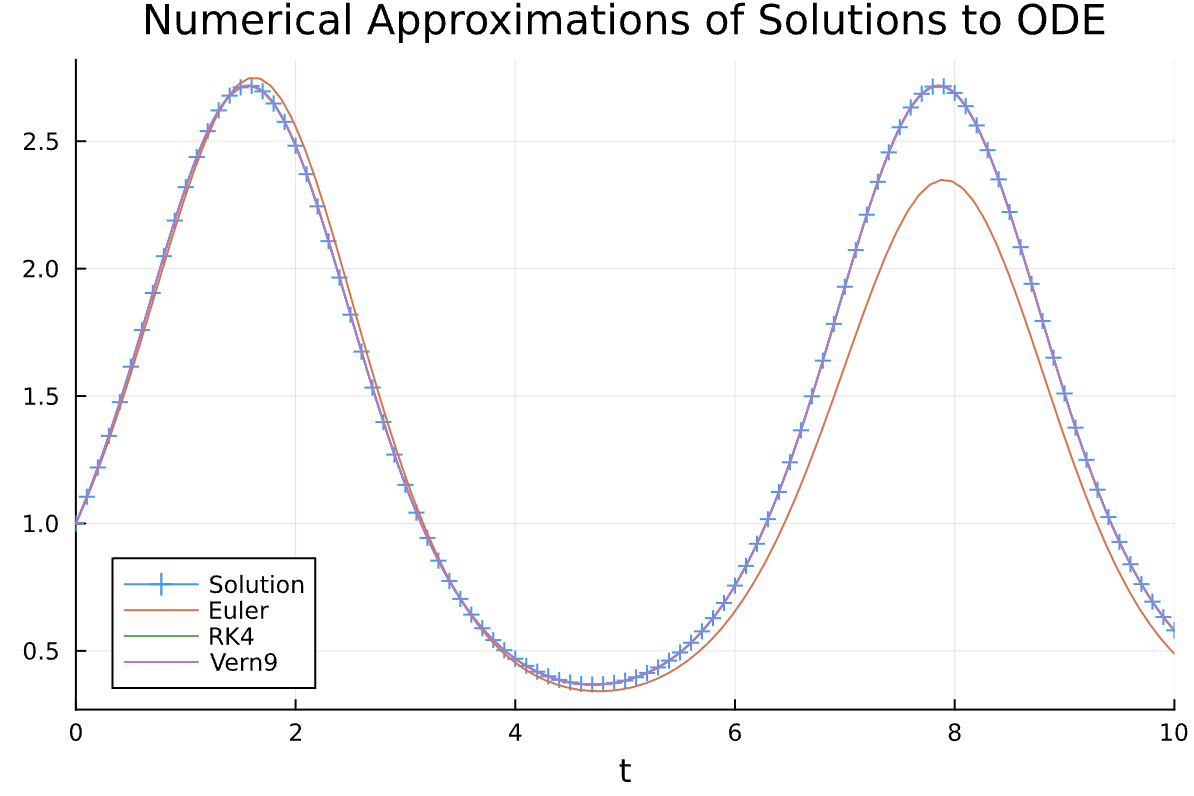
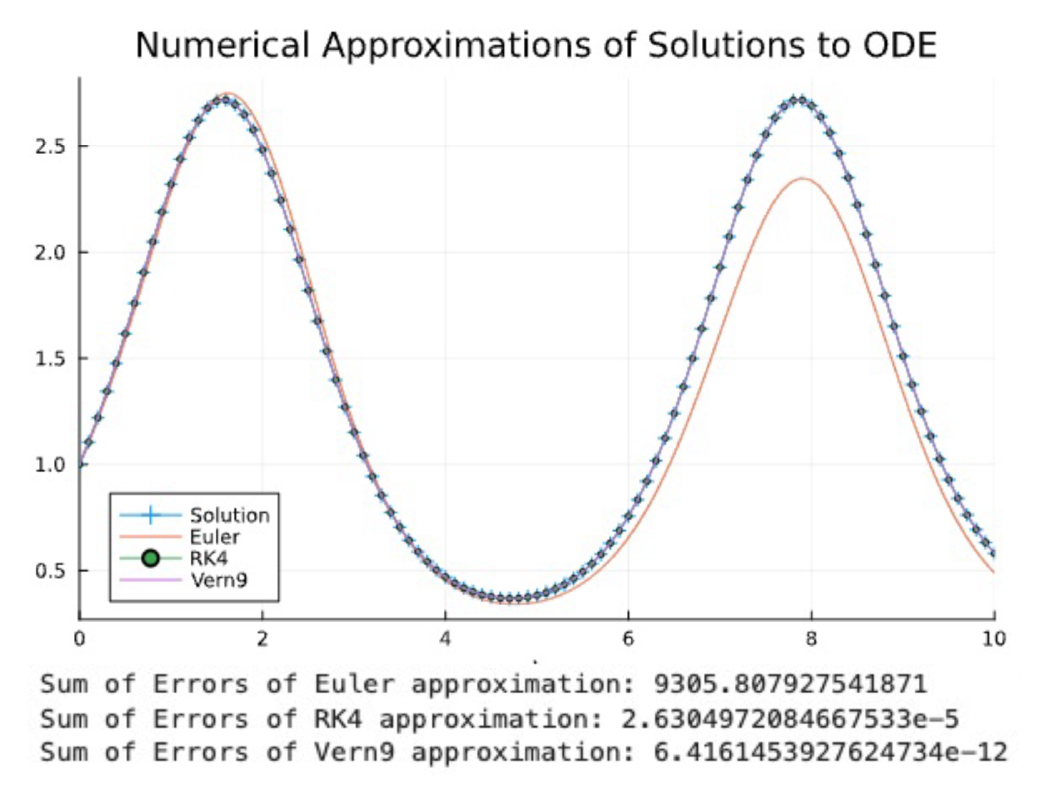
edited 4.1.1 and included citations for section 4 so far

Changed region(s): [[0.0, 0.0, 1.0, 0.9648]]

diff --git a/report/M2R_template.tex b/report/M2R_template.tex
@@ -422,9 +422,7 @@ Unlike a neural network, where depth refers to the number of layers, in a neural
 
 Solving differential equations is a difficult procedure in general, requiring a great deal of effort in existence theorems and techniques. Solving neural ODEs therefore poses a significant challenge in itself. Having defined basic neural network and neural ODE theory, we now turn our attention to the steps required to solve such problems numerically.
 
-Consider a neural ODE defined by a neural network $f$. This gives us the differential equation of the system $\dot{z}=f(z(t),\theta,t)$. There are two predominant methods for solving neural ODEs, known as Discretise-then-Optimise (DO) and Optimise-then-Discretise (OD). These methods will be elaborately described later on.
-
-For now, we introduce the ideas of discretising and optimising to provide a general understanding of the techniques required. Discretisation (of the neural ODE) involves solving the ODE numerically. These involve breaking the (continuous) differential equation into discrete time steps and employing numerical methods to calculate the solution at each time step. Optimisation, on the other hand, involves deriving the parameters $\theta$ that minimise some loss function of our choice. 
+Consider a neural ODE defined by a neural network $f$. This gives us the differential equation of the system $\dot{z}=f(z(t),\theta,t)$. There are two predominant methods for solving neural ODEs, known as Discretise-then-Optimise (DO) and Optimise-then-Discretise (OD) \cite{kidger2022neural}. For now, we introduce the ideas of discretising and optimising to provide a general understanding of the techniques required. Discretisation (of the neural ODE) involves solving the ODE numerically. These involve breaking the (continuous) differential equation into discrete time steps and employing numerical methods to calculate the solution at each time step. Optimisation, on the other hand, involves deriving the parameters $\theta$ that minimise some loss function of our choice. 
 
 As such, the two methods for solving neural ODEs require similar numerical methods, albeit used in different contexts. Section \ref{sec:nummethods} aims to introduce these ideas, before Sections \ref{sec:do} and \ref{sec:od} describing their applications in DO and OD respectively - specifically detailing the method of calculating gradients used in their optimisation processes. The two sections also discuss the advantages and disadvantages of each method.
 
@@ -448,19 +446,16 @@ The final term in the iterative process is known as the \textit{error term}. We 
 
 We note several characteristics of Euler's method:
 \begin{itemize}
-    \item It is a \textit{first order} approximation, that is, the error of the approximation to the true value is at most linear with respect to $h$. This can be seen from the iterative step as 
-    $$
-    \frac{z(t_{i+1}) - z(t_i)}{h} = f(z(t_i),\theta,t_i) + O(h)
-    $$
+    \item It is a \textit{first order} approximation, that is, the error of the approximation to the true value is at most linear with respect to $h$. This can be seen from the iterative step as $\frac{z(t_{i+1}) - z(t_i)}{h} = f(z(t_i),\theta,t_i) + O(h)$.
     \item It is a \textit{1-stage} method, in which we only required 1 computation of $f$ at a single point, namely $t_i$ in the iterative step. In a perhaps unintuitive way, we can redefine the iterative step as 
     \begin{align*}
-        z(t_{i+1}) &= z(t_i) + h\sum_{j=1}^1 b_j k_j, \\
-        k_j &= f\left(z(t_i) + h\sum_{l=1}^1 a_{jl}k_l, \theta, t_i + hc_j\right), \\
-        a_{11} &= 0, b_1 = 1, c_1 = 0
+        z(t_{i+1}) &= z(t_i) + h b_1 k_1, \\
+        k_1 &= f\left(z(t_i) + h a_{11}k_1, \theta, t_i + hc_1\right)
     \end{align*}
+    where $a_{11} = 0, b_1 = 1, c_1 = 0$.
 \end{itemize}
 
-These characteristics point toward possible limitations of Euler's method in approximating solutions to initial value problems. The errors of each iterative step can accumulate and result in large errors further away from the initial value. This necessitates having a sufficiently small $h$ for an accurate computation, increasing the computational cost. Furthermore, the assumption of evaluating the derivative (and thus $f$) in the current step $t_i$ might not be an accurate and reliable method to approximate the next step $t_{i+1}$. These limitations call for more robust and computationally efficient algorithms to approximate such solutions. One such class of methods, which extends fairly nicely from Euler's method, are the \textit{Runge-Kutta methods}.
+These characteristics point toward possible limitations of Euler's method in approximating solutions to initial value problems. The errors of each iterative step can accumulate and result in large errors further away from the initial value. This necessitates having a sufficiently small $h$ for an accurate computation, increasing the computational cost. Furthermore, the assumption of evaluating the derivative (and thus $f$) in the current step $t_i$ might not be an accurate and reliable method to approximate the next step $t_{i+1}$. These limitations call for more robust and computationally efficient algorithms to approximate such solutions. One such class of methods, which extends fairly nicely from Euler's method, are the \textit{Runge-Kutta methods} \cite{sulimayers2003}.
 
 \begin{definition}[Runge-Kutta methods]
     Given points $t_i = a + ih \in \left[a, b\right]$, $i = 0, 1, \dots, N - 1$, $h = \frac{b-a}{N}$, we define an $s$\textit{-stage Runge-Kutta method} that solves the initial value problem $\dot{z}= f(z(t), \theta,t)$, $z(t_0) = z_0$ with iterative step
@@ -480,9 +475,7 @@ These characteristics point toward possible limitations of Euler's method in app
     \end{equation*}
 \end{definition}
 
-The Runge-Kutta methods can be categorised into two types: \textit{explicit}, where the matrix $\mathbf{A}$ defined by the Butcher tableau of the method is lower triangular, and \textit{implicit}, where there is no restriction on the structure of the matrix $\mathbf{A}$. 
-
-The most common example of a higher order Runge-Kutta method is the widely studied \textit{RK4 method}. It is a $4$-stage explicit Runge-Kutta method and is a fourth-order approximation. Its Butcher's tableau is specified as
+The Runge-Kutta methods can be categorised into two types: \textit{explicit}, where the matrix $\mathbf{A}$ defined by the Butcher tableau of the method is lower triangular, and \textit{implicit}, where there is no restriction on the structure of the matrix $\mathbf{A}$. The most common example of a higher order Runge-Kutta method is the widely studied \textit{RK4 method} \cite{rungekuttasolvers}. It is a $4$-stage explicit Runge-Kutta method and is a fourth-order approximation. Its Butcher's tableau is specified as
 \begin{equation*}
     \begin{array}{c|cccc}
         0  \\
@@ -494,18 +487,16 @@ The most common example of a higher order Runge-Kutta method is the widely studi
     \end{array}
 \end{equation*}
 
-The characteristics specified above make the RK4 method a much stronger algorithm than Euler's method. Given a fixed $h$, while more stages need to be calculated at each iterative step, we note a much better approximation of the solution. Of course, many more sophisticated numerical methods have been developed (such as \texttt{Vern9}) \textcolor{red}{probably add some citations of better ones} to tackle the approximation of such solutions accurately. These methods give differing levels of accuracy, as seen in Figure \ref{fig:odesolver} (the code for which can be found in Appendix A \textcolor{red}{edit this}), with higher-order approximations clearly giving better approximations.
+The characteristics specified above make the RK4 method a much stronger algorithm than Euler's method. Given a fixed $h$, while more stages need to be calculated at each iterative step, we note a much better approximation of the solution. Of course, many more sophisticated numerical methods have been developed (such as \texttt{Vern9} \cite{verner2010}) to tackle the approximation of such solutions accurately. These methods give differing levels of accuracy, as seen in Figure \ref{fig:odesolver} (the code for which can be found in Appendix A \textcolor{red}{edit this}), with higher-order approximations clearly giving better approximations. Many of these algorithms can be implemented via packages such as \texttt{DifferentialEquations.jl} in Julia.
 
 \begin{figure}
     \centering
     \includegraphics[width=0.5\textwidth]{report/figures/ODESolvers.png}
-    \caption{A comparison of ODE Solvers used to solve the differential equation $\dot{z} = \cos(t)z$.}
+    \caption{A comparison of ODE Solvers used to solve the differential equation $\dot{z} = \cos(t)z$. The errors were calculated by adding the absolute differences of the actual solution and the approximations at discrete times $\{0, 0.1, \dots, 9.9, 10.0\}$.}
     \label{fig:odesolver}
 \end{figure}
 
-With such a wide range of numerical methods, there is much consideration in which method is best. One such consideration is the \textit{absolute stability} of the numerical method. This is an especially important consideration when dealing with stiff ODEs, where the eigenvalues of the linear approximations of $f$ are all negative, with a large ratio between the maximum and minimum real values of the set of eigenvalues. These give rise to numerical instabilities to the numerical methods introduced thus far - essentially requiring an extremely (and thus inefficiently) small value of $h$. A possible alternative to this is to use implicit methods instead. In the context of the Runge-Kutta methods, this means removing the restriction that the matrix $\mathbb{A}$ must be lower triangular. It can be proven that such methods actually have an \textit{unbounded region of absolute stability}, as compared to explicit Runge-Kutta methods which have \textcolor{red}{add citation, Cambridge press thing} \textit{bounded regions of absolute stability}. There is, however, a trade-off for using such implicit methods. The derivation of $k_1, \dots, k_s$ in implicit methods requires solving the $s$ equations simultaneously, instead of in succession as seen in explicit methods. This requires more computational power and might make computation inefficient.
-
-\textcolor{red}{TALK ABOUT THE MODULE THEY CAN BE FOUND IN}
+With such a wide range of numerical methods, there is much consideration in which method is best. One such consideration is the \textit{absolute stability} of the numerical method. This is an especially important consideration when dealing with stiff ODEs, where the eigenvalues of the linear approximations of $f$ are all negative, with a large ratio between the maximum and minimum real values of the set of eigenvalues. These give rise to numerical instabilities to the numerical methods introduced thus far - essentially requiring an extremely (and thus inefficiently) small value of $h$. A possible alternative to this is to use implicit methods instead. In the context of the Runge-Kutta methods, this means removing the restriction that the matrix $\mathbb{A}$ must be lower triangular. It can be proven that such methods have an \textit{unbounded region of absolute stability}, as compared to explicit Runge-Kutta methods which have \textit{bounded regions of absolute stability} \cite{sulimayers2003}. There is, however, a trade-off for using such implicit methods. The derivation of $k_1, \dots, k_s$ in implicit methods requires solving the $s$ equations simultaneously, instead of in succession as seen in explicit methods. This requires more computational power and might make computation inefficient.
 
 \subsubsection{Loss Functions}
 
@@ -532,7 +523,7 @@ Of course, the precise definition of the loss function depends on the optimisati
 
 These loss functions are dependent on $\hat{y}_i$ which in turn is dependent on $\theta$. Given the context of optimisation problems, we want to find $\hat{\theta}$ that produces $\hat{y}_i$, giving the global minimum of $\mathcal{L}(\mathbf{y}, \mathbf{\hat{y}})$. Thus, choosing a loss function that can produce convergence to the global minimum efficiently is of utmost importance. This means that convex functions (which, by definition, can only have one minimum, the global minimum) are generally favoured over non-convex functions, which have multiple (local) minima that an algorithm might get stuck in. We note that only (6) from Table \ref{tab:lfd} is non-convex, which will require more sophisticated methods to more efficiently locate the global minimum. Such methods are discussed in Section \ref{sec:gd}.
 
-Studies have been conducted to consider the theoretical performances of each of these commonly used loss functions, namely the upper bounds of their rates of convergence (which imply their efficiency) \textcolor{red}{insert citation, Are all Loss Functions the same?}. We note that the $L^2$-norm actually has a much slower convergence in both regression and classification problems compared to other convex loss functions discussed.
+Studies have been conducted to consider the theoretical performances of each of these commonly used loss functions, namely the upper bounds of their rates of convergence (which imply their efficiency). We note that the $L^2$-norm actually has a much slower convergence in both regression and classification problems compared to other convex loss functions discussed \cite{Rosasco2004}.
 
 \subsubsection{Gradient Descent and Applications}
 \label{sec:gd}
@@ -712,7 +703,36 @@ $$
 Thus, we only need to solve this initial value problem. By calling the ODE solver on the augmented adjoint once, we are able to calculate all the necessary gradients with respect to $z(t_0)$, $\theta$, $t_0$ and $t_N$.
 
 \pagebreak
-\section{Application (Jiankuan Liu's Part)}
+\section{Application: Continuous Dynamics of Financial Time Series Data}
+Financial time series data, such as stock prices and market indices, exhibit continuous dynamics that can be challenging to model accurately. Traditional machine learning models often struggle to capture these dynamics due to their discrete nature. Neural Ordinary Differential Equations (Neural ODEs) provide a powerful framework for modeling the continuous evolution of market data by integrating neural network architectures within differential equation solvers. This approach leverages the flexibility of neural networks to capture complex patterns while maintaining the mathematical rigor of differential equations.
+
+
+\subsection{Neural ODEs and Financial Time Series}
+Neural ODEs model the evolution of hidden states \(z(t)\) using differential equations of the form:
+\[
+\frac{dz(t)}{dt} = f(z(t), \theta, t)
+\]
+Here, \(f\) is a neural network with parameters \(\theta\), which captures the underlying dynamics of the financial time series data. By embedding the neural network within the ODE framework, Neural ODEs can naturally handle the continuous evolution of market data. This is particularly advantageous for modeling financial time series, where capturing the precise timing and value of price changes is crucial.
+
+\subsection{Numerical Methods for Solving ODEs}
+Runge-Kutta methods are numerical techniques used to solve ordinary differential equations (ODEs). These methods (especially RK4) are widely used due to their balance of accuracy and computational efficiency. In the context of Neural ODEs, Runge-Kutta methods help in approximating the continuous evolution of the hidden states over time. By discretizing the time domain and iteratively updating the state variables, these methods ensure stable and accurate solutions, which are essential for reliable financial modeling.
+
+
+\begin{verbatim}
+using DifferentialEquations, Flux, Optim, Zygote
+
+# Define the ODE function as a neural network
+function neural_ode_function(du, u, p, t)
+    du .= Flux.dense(p)(u)
+end
+\end{verbatim}
+
+
+\subsection{Loss Functions and Optimization}
+The loss function in machine learning quantifies the difference between the predicted values and the actual market data. For financial time series, common choices include Mean Squared Error (MSE) or more sophisticated loss functions that account for financial risk metrics. The loss function drives the optimization process, guiding the model to learn accurate representations of the market dynamics. Gradient descent is the optimization algorithm used to minimize the loss function. In Neural ODEs, the adjoint sensitivity method is employed to efficiently compute gradients with respect to the model parameters, facilitating back-propagation through the ODE solver. Gradient descent updates the parameters \(\theta\) to reduce the loss, iteratively improving the model's performance.
+
+
+\subsection{Approaches to Optimization}
 
 \pagebreak
 \section{Extension: Neural CDEs}
@@ -776,7 +796,7 @@ From the above CDE, we may conclude that the hidden state $Z_t$ of the recurrent
 
 It is theoretically possible to directly solve a CDE $\mathrm{d}y_t = f(y_t)\mathrm{d}x_t$ with a given initial condition by discretisation. In particular, one could use the following modification of the Euler method to obtain a numerical solution: $y_{i+1}=y_i+f_\theta(y_i)(x(t_{i+1})-x(t_j))$.
 
-CDEs are much harder to solve than ODEs since there is a control term introduced in the equation. For the general case, we don't know whether the control path $x_t$ is differentiable or not. Using powerful tools from rough path theory, one can derive an elegant result called the \textit{log-ODE method}, which approximates the CDE by an ODE containing the log-signature of the control path. The details of the log-ODE method are omitted, as the statement and proof of this result would take up too much space in this report. For interested readers, see c for details.
+CDEs are much harder to solve than ODEs since there is a control term introduced in the equation. For the general case, we don't know whether the control path $x_t$ is differentiable or not. Using powerful tools from rough path theory, one can derive an elegant result called the \textit{log-ODE method}, which approximates the CDE by an ODE containing the log-signature of the control path. The details of the log-ODE method are omitted, since the statement and proof of this result would take up too much space in this report. For interested readers, see c for details.
 
 Despite the fact that the log-ODE method can be used to solve CDEs under any circumstances, the log-ODE method is quite complicated to implement numerically. Fortunately, it can be cleverly avoided in terms of applications. By a standard treatment common in numerical analysis, we can guarantee that the control path $x_t$ is continuously differentiable. We defer the discussion of this technique to later parts of this report. In this case, the CDE can be shown to be equivalent to the following non-autonomous ODE: $\mathrm{d}y_t=g(t,y_t)\mathrm{d}t$, where $g(t,y_t)=f(y_t)\frac{\mathrm{d}x_t}{\mathrm{d}t}$. Then, we can solve this ODE using methods explained in Section 4 of this report.
 
@@ -784,9 +804,11 @@ Also, note that the backpropagation through CDE is similar to that of ODE. In pa
 
 \subsection{Applications}
 
-Given a
+It is possible to use neural ODEs to model time series data. However, neural ODEs become less useful when it comes to irregularly sampled time series data. In this final subsection, we propose a naive version using neural CDEs to model financial time series data.
 
-To do so, we need to employ a standard technique from numerical analysis, called \textit{cubic spline}. The only thing that we need to know is that cubic splines are continuously differentiable.
+In the context of financial time series, the input data consists of a sequence of discrete data points $(t_i,x_i)$. As mentioned in the previous subsection, it is possible to construct a continuous control path based on these discrete data points. To do so, we need to employ a standard technique from numerical analysis, called \textit{cubic spline}.
+
+\definition{Cubic splines}
 
 \pagebreak
 \section{Conclusion}
